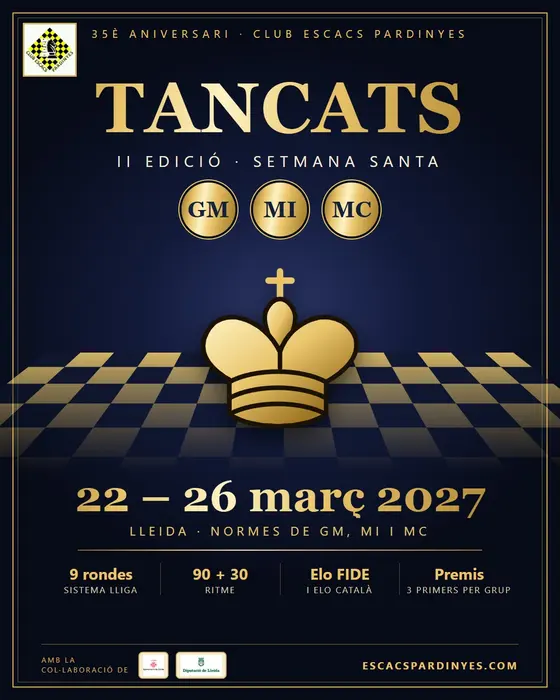
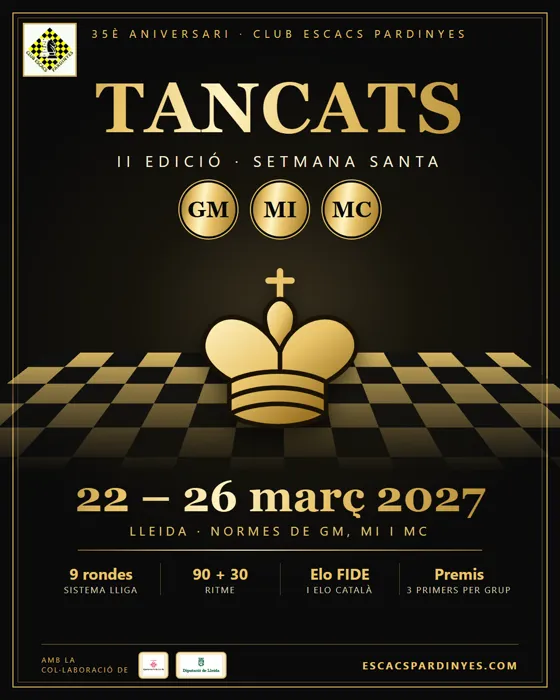
Tancats poster: black and gold palette, no blue tones

diff --git a/cartells/tancats/index.html b/cartells/tancats/index.html
@@ -2,11 +2,11 @@
 <html lang="ca"><head><meta charset="utf-8">
 <style>
 *{margin:0;padding:0;box-sizing:border-box}
-html,body{width:1080px;height:1350px;overflow:hidden;background:#070b18}
+html,body{width:1080px;height:1350px;overflow:hidden;background:#0a0a0a}
 body{position:relative;font-family:'Century Gothic','Futura','Segoe UI',Arial,sans-serif;color:#f5ecd2}
 :root{--gold:linear-gradient(100deg,#8a6420 0%,#e9c46a 22%,#fff3c4 40%,#e9c46a 58%,#9c7220 100%)}
 .gold{background:var(--gold);-webkit-background-clip:text;background-clip:text;color:transparent}
-.bg{position:absolute;inset:0;background:radial-gradient(ellipse 600px 520px at 540px 600px,#2b3566 0%,#121a3a 45%,#070b18 100%)}
+.bg{position:absolute;inset:0;background:radial-gradient(ellipse 600px 520px at 540px 600px,#3a3220 0%,#17140c 45%,#0a0a0a 100%)}
 .beam{position:absolute;left:0;right:0;top:0;height:900px;background:conic-gradient(from 180deg at 540px 0px,transparent 0 160deg,#e9c46a22 170deg,transparent 180deg 180deg,transparent 180deg,#e9c46a22 190deg,transparent 200deg 360deg);}
 img.club{position:absolute;top:44px;left:44px;width:104px;height:104px;object-fit:contain;background:#fff;border:3px solid #d8b25a}
 .top{position:absolute;top:50px;left:0;right:0;text-align:center}
@@ -14,10 +14,10 @@ img.club{position:absolute;top:44px;left:44px;width:104px;height:104px;object-fi
 h1{position:absolute;top:140px;left:0;right:0;text-align:center;font-family:Georgia,serif;font-weight:700;font-size:136px;line-height:1;letter-spacing:.02em}
 .sub{position:absolute;top:290px;left:0;right:0;text-align:center;font-size:30px;letter-spacing:.34em;text-transform:uppercase}
 .medals{position:absolute;top:352px;left:0;right:0;display:flex;justify-content:center;gap:34px}
-.medal{width:104px;height:104px;border-radius:50%;background:var(--gold);display:flex;align-items:center;justify-content:center;box-shadow:0 0 0 4px #070b18,0 0 0 6px #e9c46a}
-.medal span{font-family:Georgia,serif;font-weight:700;font-size:44px;color:#14213d}
+.medal{width:104px;height:104px;border-radius:50%;background:var(--gold);display:flex;align-items:center;justify-content:center;box-shadow:0 0 0 4px #0a0a0a,0 0 0 6px #e9c46a}
+.medal span{font-family:Georgia,serif;font-weight:700;font-size:44px;color:#0a0a0a}
 .stage{position:absolute;left:0;right:0;top:480px;height:480px;perspective:800px}
-.board{position:absolute;left:90px;width:900px;top:200px;height:400px;transform:rotateX(64deg);transform-origin:50% 0;background:conic-gradient(#e9c46a 25%,#10172f 0 50%,#e9c46a 0 75%,#10172f 0) 0 0/130px 130px;-webkit-mask-image:linear-gradient(#000 0%,#0007 50%,transparent 88%);mask-image:linear-gradient(#000 0%,#0007 50%,transparent 88%);opacity:.9}
+.board{position:absolute;left:90px;width:900px;top:200px;height:400px;transform:rotateX(64deg);transform-origin:50% 0;background:conic-gradient(#e9c46a 25%,#0f0f0f 0 50%,#e9c46a 0 75%,#0f0f0f 0) 0 0/130px 130px;-webkit-mask-image:linear-gradient(#000 0%,#0007 50%,transparent 88%);mask-image:linear-gradient(#000 0%,#0007 50%,transparent 88%);opacity:.9}
 .king{position:absolute;left:340px;top:-10px;width:400px;height:400px;filter:drop-shadow(0 18px 24px #000a)}
 .when{position:absolute;top:915px;left:0;right:0;text-align:center}
 .when .big{font-family:Georgia,serif;font-weight:700;font-size:84px;line-height:1}
